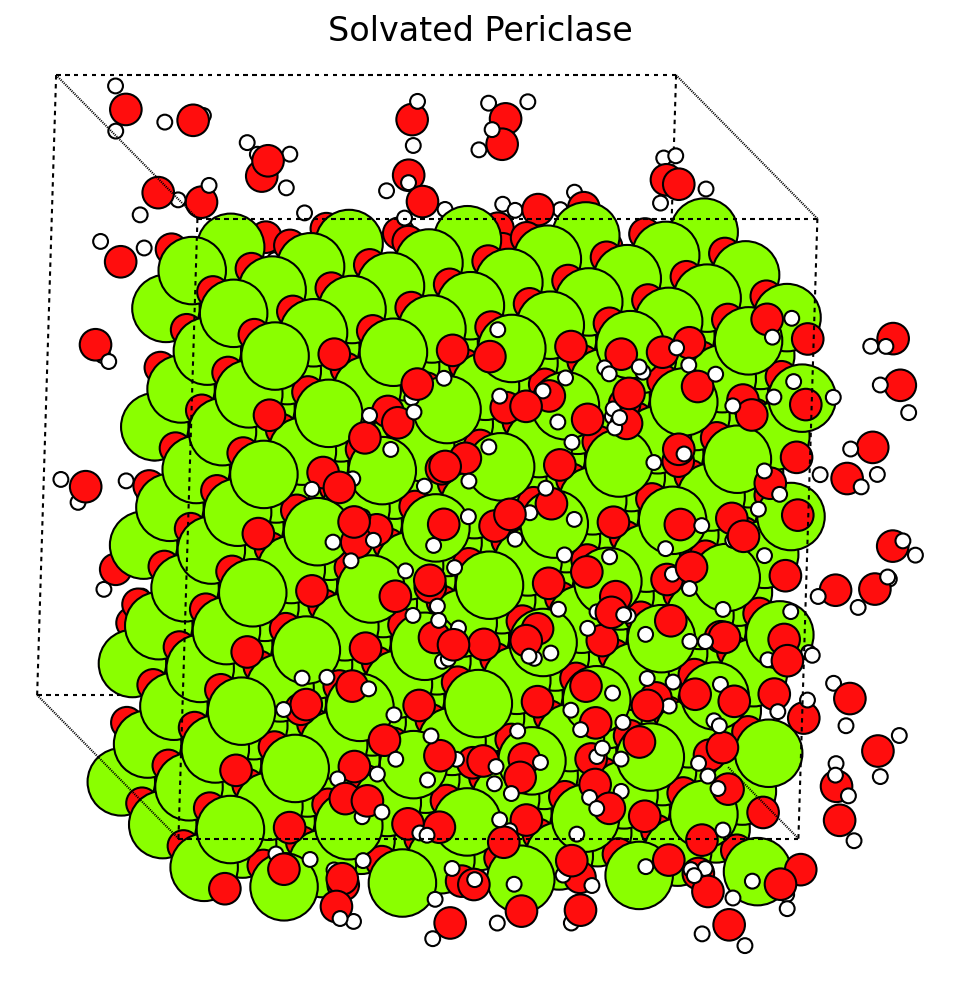
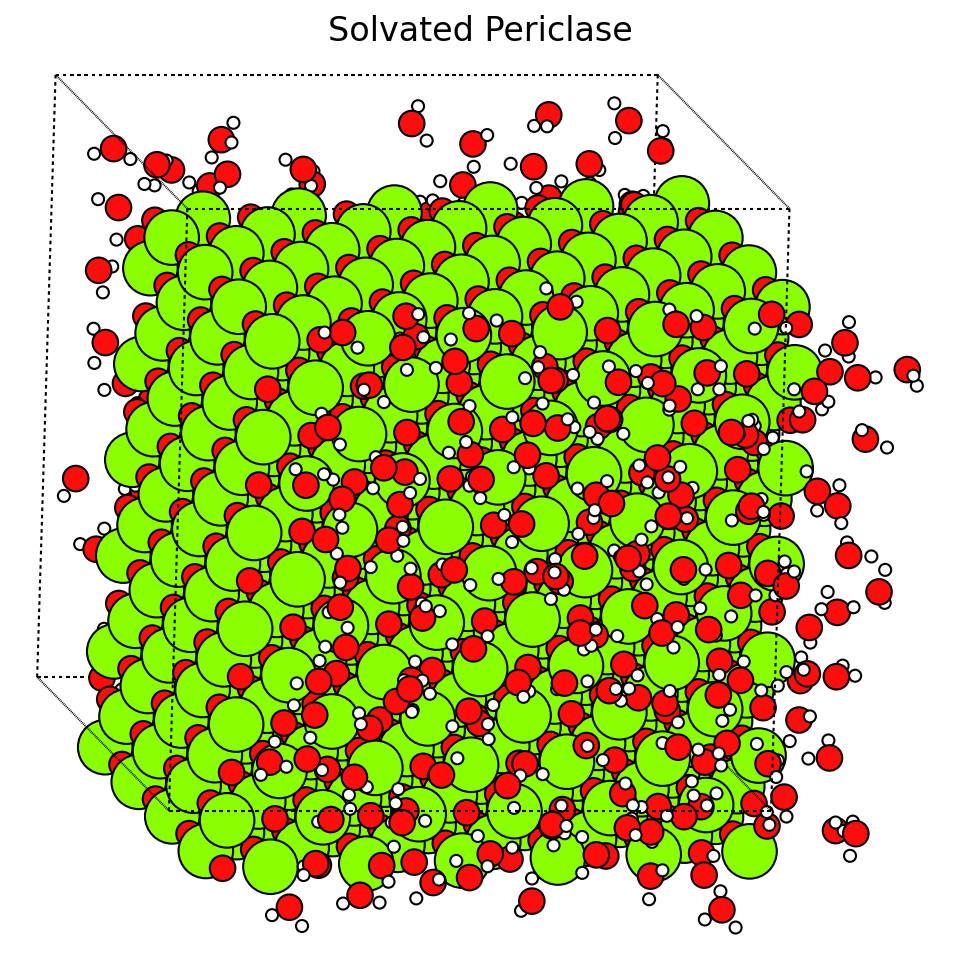
Enhance documentation examples
- Use molecular-builder for crystal generation (Periclase, Brucite)
- Generate visualization images for all 4 examples
- Fix image embedding in examples.rst (unindentation)
- Ensure Brucite slab generation avoids OH cutting issues

diff --git a/generate_examples.py b/generate_examples.py
@@ -9,19 +9,31 @@ from ase.build import bulk
 from ase.io import write
 from water_packer import WaterPacker, pack_with_relaxation
 
+from molecular_builder import create_bulk_crystal
+
 def create_periclase():
-    """Create a Periclase (MgO) slab."""
+    """Create a Periclase (MgO) slab using molecular-builder."""
     print("Creating Periclase (MgO) slab...")
-    # Standard rocksalt structure - use cubic cell for easy slab making
-    fatoms = bulk('MgO', 'rocksalt', a=4.21, cubic=True)
     
-    # Replicate to make a decent size slab (approx 20x20 Å)
-    # 5x5x3 unit cells
-    atoms = fatoms.repeat((5, 5, 3))
+    # Create bulk unit crystal ([1,1,1] means 1 unit cell? No, size argument)
+    # create_bulk_crystal returns an ase.Atoms object
+    # For cubic, size is usually array like [a, b, c] dimensions or repeat?
+    # Checking molecular_builder.core:
+    #   crystal = crystals[name]
+    #   atoms = ase.spacegroup.crystal(..., cellpar=[a,b,c, ...])
+    #   atoms = atoms.repeat(np.ceil(size / atoms.cell.lengths())) ?
+    # Actually create_bulk_crystal implementation:
+    #   ... creates crystal ...
+    #   if size is not None: repeats
+    # But size is in Angstroms? "size: size of the bulk crystal"
+    # Let's provide a size that ensures we get enough repeats.
+    # Periclase a=4.21. 5*4.21=21.05.
+    
+    atoms = create_bulk_crystal("periclase", [22.0, 22.0, 13.0])
     
     # Add vacuum for water (15 Å)
     cell = atoms.get_cell()
-    print(f"  Initial size: {cell[0,0]:.2f} x {cell[1,1]:.2f} x {cell[2,2]:.2f} Å")
+    print(f"  Bulky size: {cell[0,0]:.2f} x {cell[1,1]:.2f} x {cell[2,2]:.2f} Å")
     
     cell[2, 2] += 15.0
     atoms.set_cell(cell)
@@ -30,47 +42,26 @@ def create_periclase():
     return atoms
 
 def create_brucite():
-    """Create Brucite (Mg(OH)2) slab from CIF parameters with H-termination."""
+    """Create Brucite (Mg(OH)2) slab using molecular-builder."""
     print("Creating Brucite (Mg(OH)2) slab...")
     
-    # CIF Parameters
-    a = 3.142
-    c = 4.766
-    
-    # Hexagonal cell (gamma=120)
-    cell = np.array([
-        [a, 0.0, 0.0],
-        [-0.5 * a, np.sqrt(3)/2 * a, 0.0],
-        [0.0, 0.0, c]
-    ])
-    
-    # Fractional coordinates from CIF (shifted +0.5 Z for H-termination)
-    frac_positions = np.array([
-        [0.0, 0.0, 0.5],              # Mg
-        [1/3, 2/3, 0.2216 + 0.5],     # O
-        [2/3, 1/3, -0.2216 + 0.5],    # O
-        [1/3, 2/3, 0.4303 + 0.5],     # H
-        [2/3, 1/3, -0.4303 + 0.5],    # H
-    ])
-    
-    symbols = ['Mg', 'O', 'O', 'H', 'H']
-    
-    # Convert to cartesian
-    positions = np.dot(frac_positions, cell)
-    
-    base = Atoms(symbols=symbols, positions=positions, cell=cell, pbc=True)
-    
-    # Replicate to make larger slab
-    # 3x3x2
-    atoms = base.repeat((3, 3, 2))
+    # Brucite a=3.14, c=4.77.
+    # 3x3x2 repeats -> ~9.4 x 9.4 x 9.5
+    # Warning: create_bulk_crystal takes size in Angstroms?
+    # Let's ask for 10x10x10 to be safe
+    atoms = create_bulk_crystal("brucite", [10.0, 10.0, 10.0])
     
     # Add vacuum
     cell = atoms.get_cell()
-    print(f"  Initial size: {cell[0,0]:.2f} x {cell[1,1]:.2f} x {cell[2,2]:.2f} Å(z)")
+    print(f"  Bulk size: {cell[0,0]:.2f} x {cell[1,1]:.2f} x {cell[2,2]:.2f} Å(z)")
+    
+    # User warning: Brucite cutting might misplace OH.
+    # The crystal comes from ase.spacegroup.crystal.
+    # center(axis=2) should handle the vacuum placement safely AROUND the atoms.
     
     cell[2, 2] += 15.0
     atoms.set_cell(cell)
-    atoms.center(axis=2)
+    atoms.center(axis=2) # This is key
     
     return atoms
 
@@ -160,6 +151,15 @@ def solvate_system(name, atoms, density=1.0):
         print(f"  ❌ Error solvating {name}: {e}")
         return None, None
 
+def create_water_box():
+    """Create a simple empty box for water packing examples."""
+    print("Creating empty box for water packing...")
+    # 15x15x15 Å box
+    a = 15.0
+    cell = np.eye(3) * a
+    atoms = Atoms(cell=cell, pbc=True)
+    return atoms
+
 if __name__ == "__main__":
     generated_files = []
     
@@ -175,6 +175,14 @@ if __name__ == "__main__":
     if f2: generated_files.append(f2)
     if img2: generated_files.append(img2)
     
+    # 3. Generic Box (for reproducible & auto examples)
+    water_box = create_water_box()
+    f3, img3 = solvate_system("WaterBox", water_box, density=1.0)
+    if f3: generated_files.append(f3)
+    if img3: generated_files.append(img3)
+
     print("\nSummary:")
     for f in generated_files:
         print(f"- {f}")
+
+

diff --git a/docs/examples.rst b/docs/examples.rst
@@ -26,10 +26,10 @@ Pack water around a periclase (MgO) crystal:
 
    solvated = packer.pack(mgo, n_waters=200)
 
-   .. image:: _static/periclase_solvated.png
-      :alt: Solvated Periclase Crystal
-      :align: center
-      :width: 600
+.. image:: _static/periclase_solvated.png
+   :alt: Solvated Periclase Crystal
+   :align: center
+   :width: 600
 
 Example 2: Reproducible Packing
 --------------------------------
@@ -52,6 +52,11 @@ Generate identical structures using seeds:
        result2.get_positions()
    )
 
+.. image:: _static/waterbox_solvated.png
+   :alt: Reproducible Solvation Box
+   :align: center
+   :width: 600
+
 Example 3: Auto-calculate Water Count
 --------------------------------------
 
@@ -65,6 +70,11 @@ Let the packer determine how many waters fit:
    result = packer.pack(substrate)
    
    print(f"Auto-packed {(len(result) - len(substrate))//3} waters")
+
+.. image:: _static/waterbox_solvated.png
+   :alt: Auto-packed Water Box
+   :align: center
+   :width: 600
 
 Example 4: Complex Surfaces (Brucite)
 --------------------------------------
